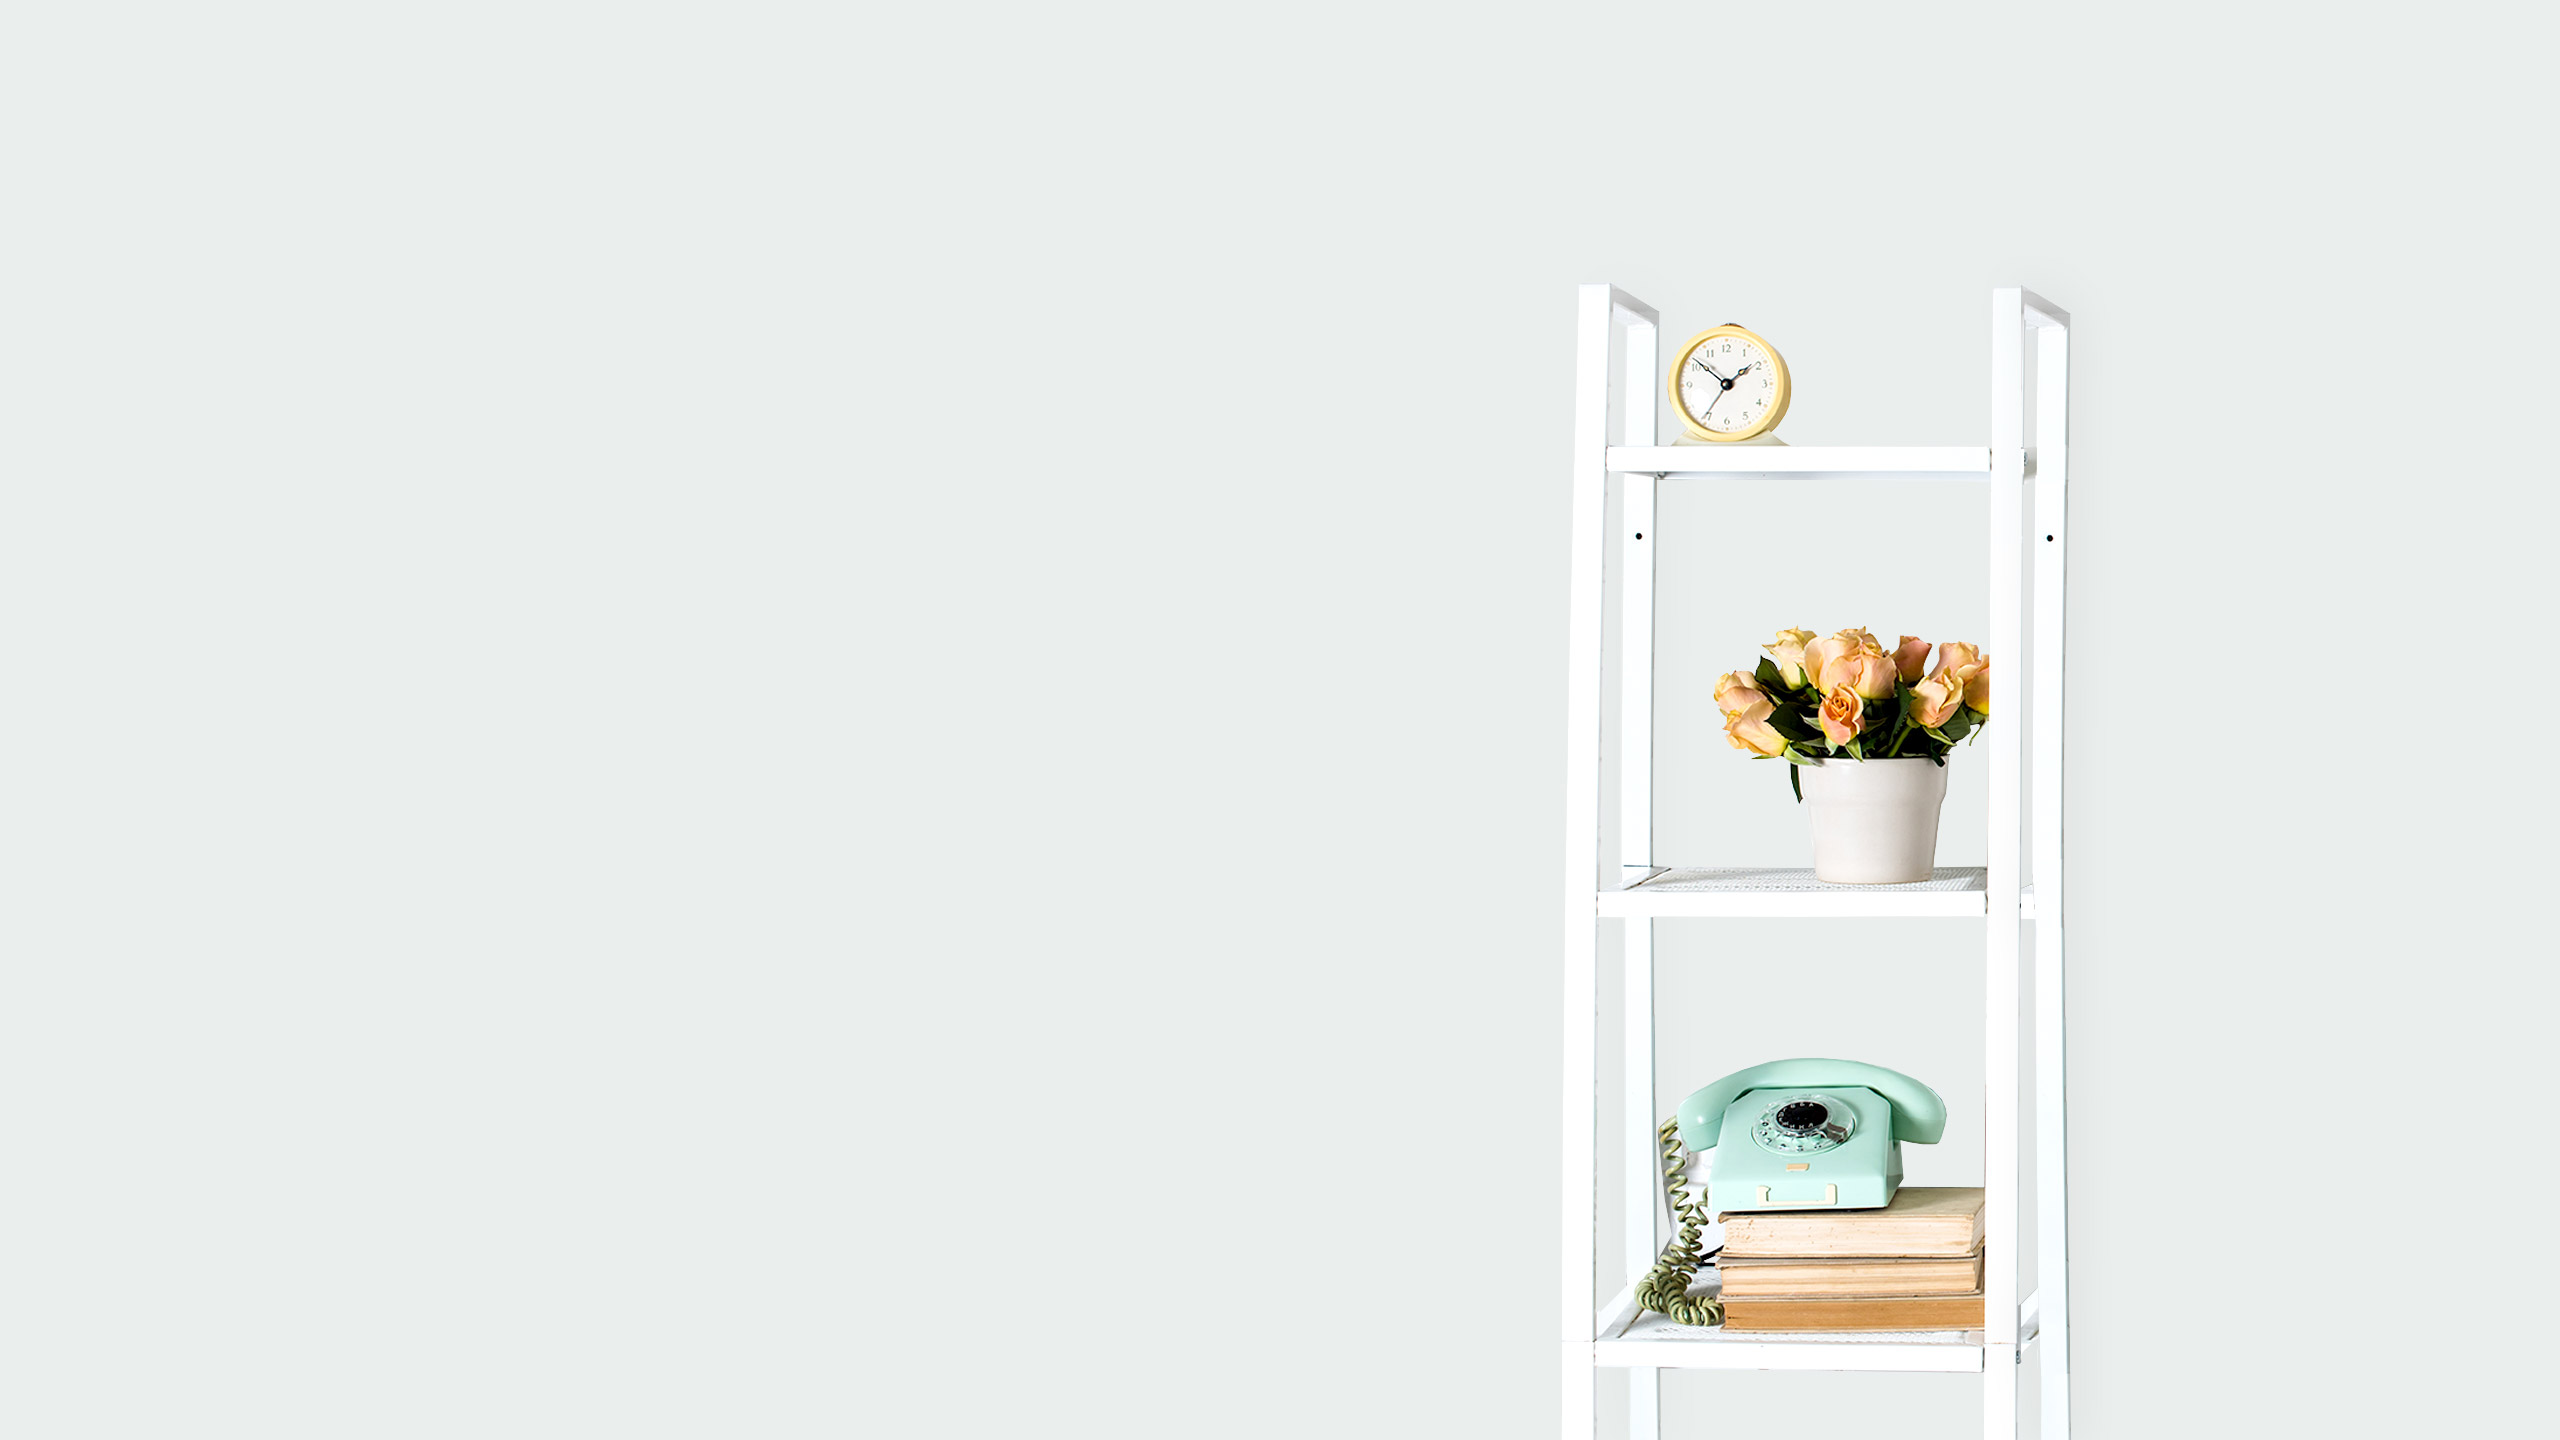
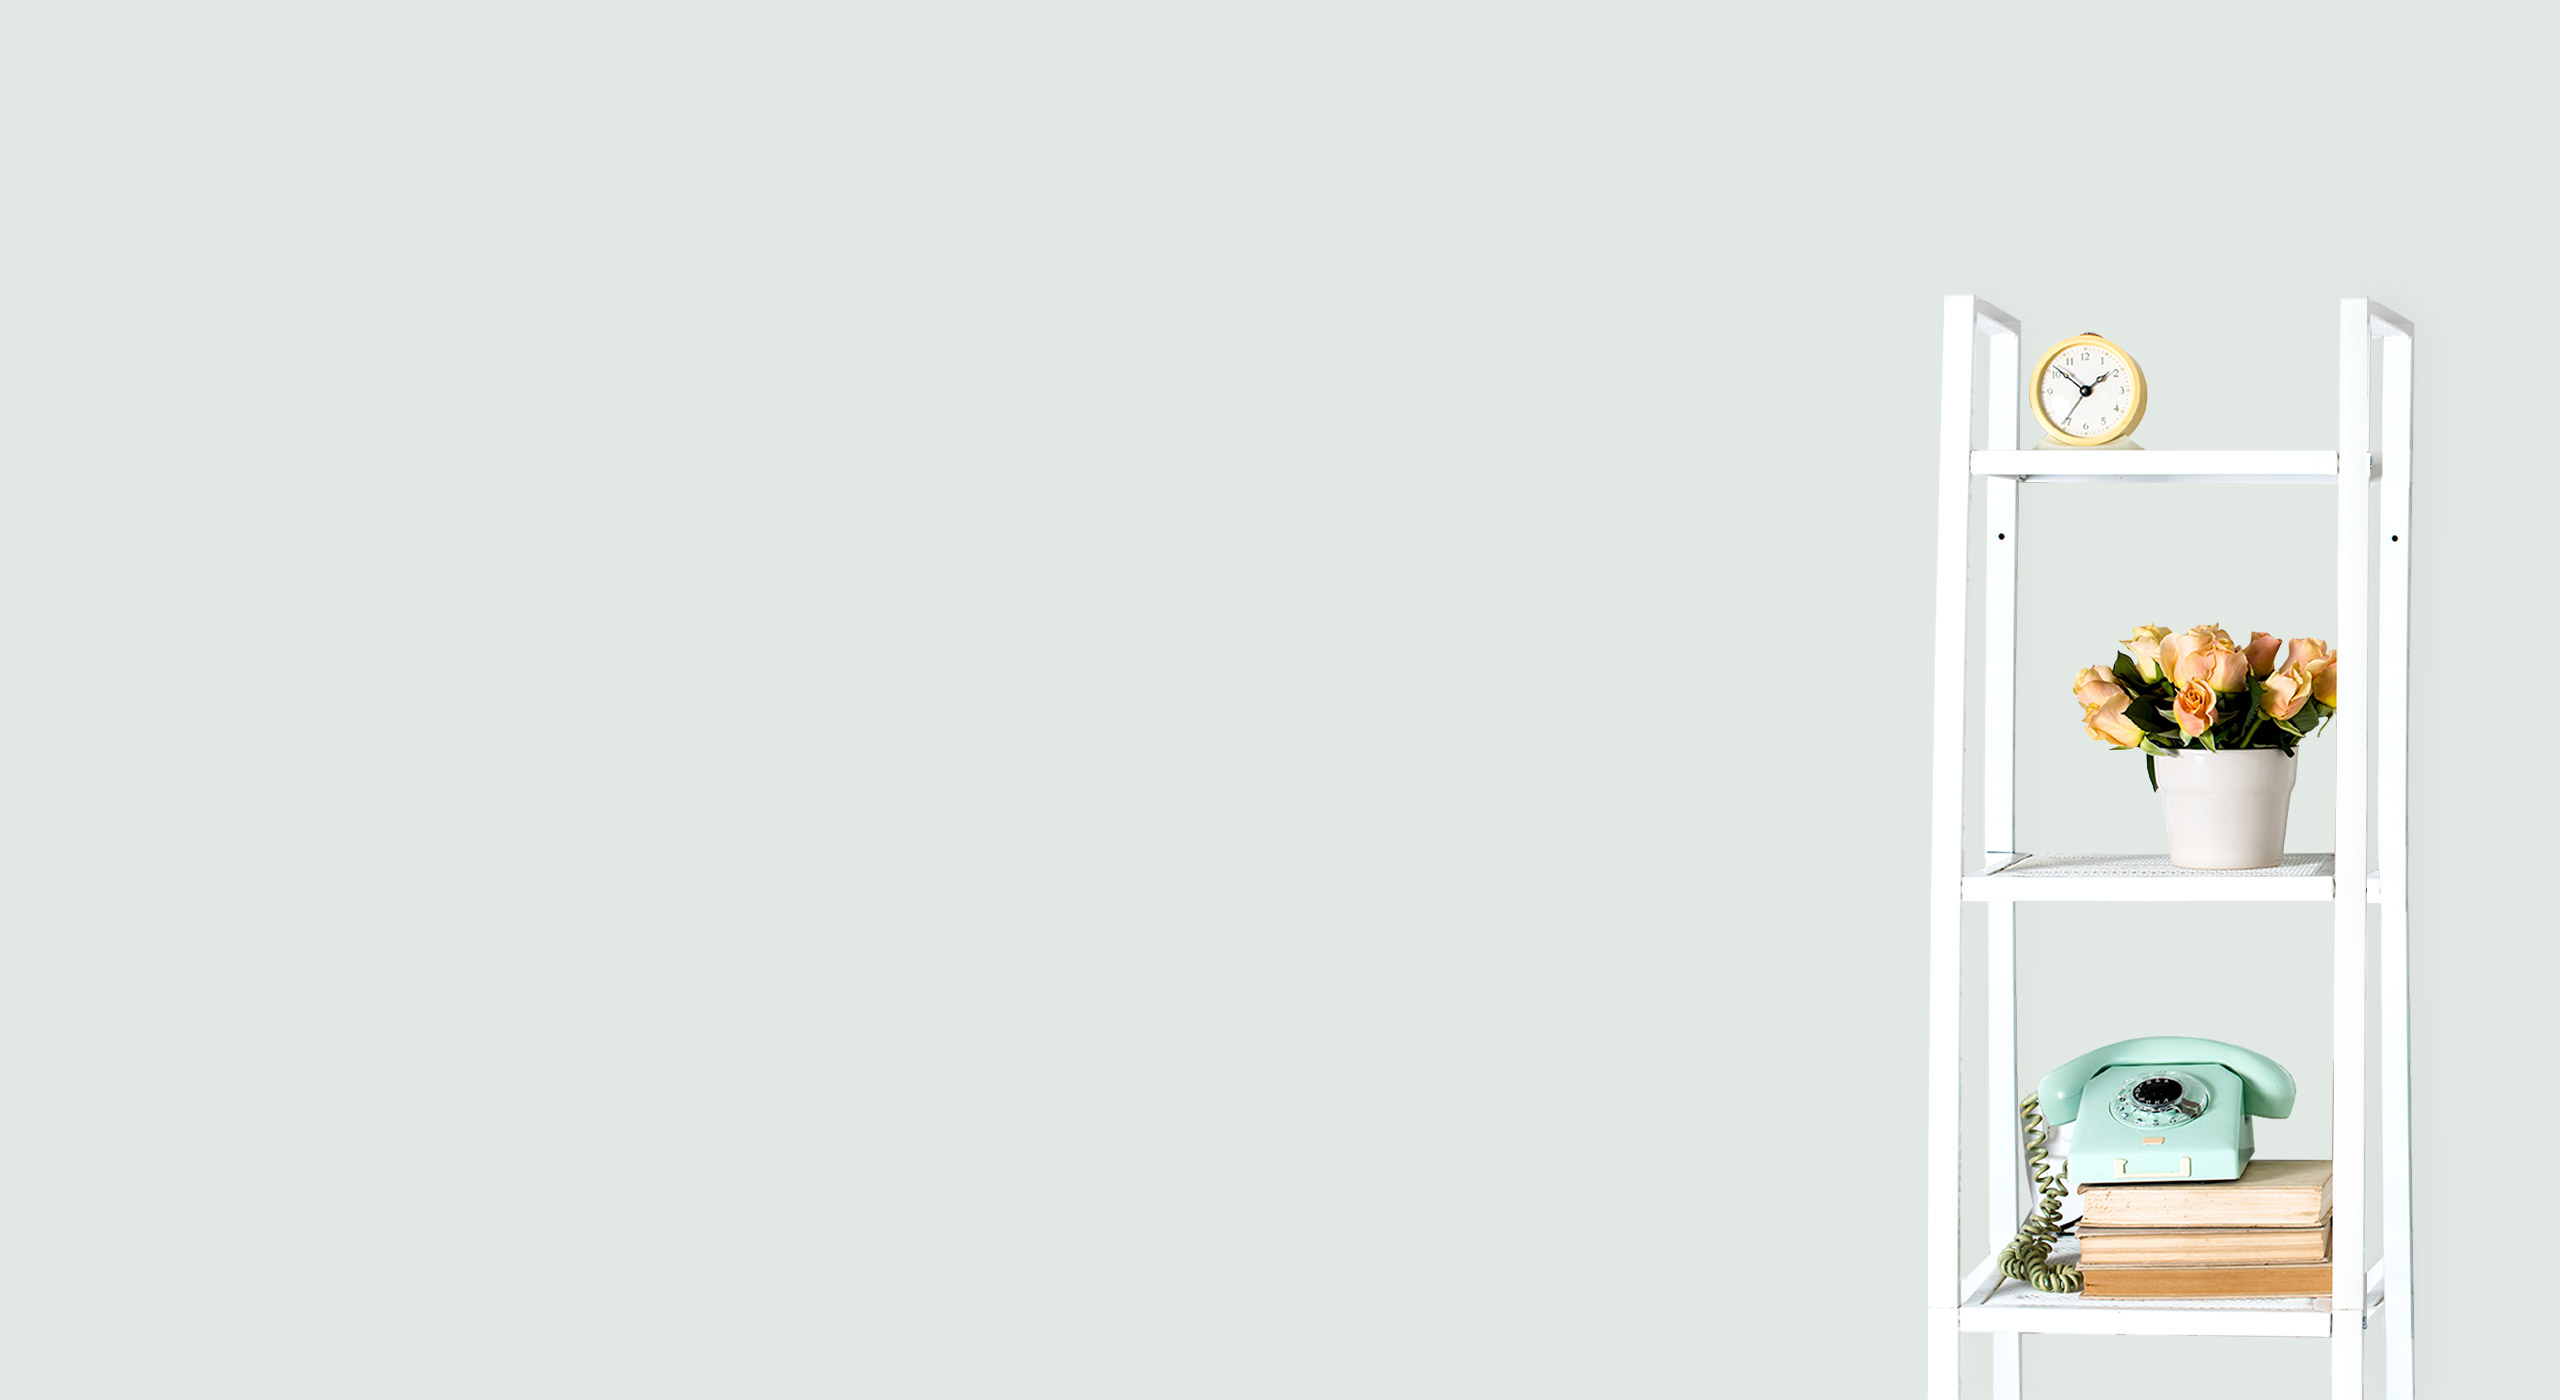
Updated slideshow images and ecom basket button.

Changed region(s): [[0.5938, 0.1843, 0.9375, 1.0], [0.9062, 0.215, 0.9375, 0.2457]]

diff --git a/less/plugins/ecommerce.less b/less/plugins/ecommerce.less
@@ -36,7 +36,6 @@
 button.basket-toggle {
 	background-color: @font-swatch6-color-hover;
 	color: @font-swatch6-background-color;
-	position: absolute;
 	right: 0;
 	margin-bottom: 0;
 	padding: 12px 20px;
@@ -444,7 +443,11 @@ form.ecomproductslist__form {
 
 	.product-item-title {
 		color: @font-swatch4-color;
-		font-size: bkscale(@font-swatch4-font-size, 0.92);
+		font-family: @font-swatch2-font-family;
+		font-size: bkscale(@font-swatch3-font-size, 1.05);
+		font-weight: @font-swatch2-font-weight;
+		line-height: bkscale(@font-swatch3-line-height, 1.05);
+		margin-bottom: 0;
 
 		a {
 			color: @font-swatch4-color;
@@ -453,7 +456,7 @@ form.ecomproductslist__form {
 
 	.product-item-price {
 		color: @color-swatch2;
-		font-size: bkscale(@font-swatch3-font-size, 0.95);
+		font-size: bkscale(@font-swatch4-font-size, 0.92);
 	}
 }
 
@@ -542,7 +545,11 @@ form.ecomproductslist__form {
 
 	.product-item-title {
 		color: @font-swatch4-color;
-		font-size: bkscale(@font-swatch4-font-size, 0.85);
+		font-family: @font-swatch2-font-family;
+		font-size: bkscale(@font-swatch3-font-size, 1.05);
+		font-weight: @font-swatch2-font-weight;
+		line-height: bkscale(@font-swatch3-line-height, 1.05);
+		margin-bottom: 0;
 
 		a {
 			color: @font-swatch4-color;
@@ -551,27 +558,8 @@ form.ecomproductslist__form {
 
 	.product-item-price {
 		color: @color-swatch2;
-		font-size: bkscale(@font-swatch3-font-size, 0.95);
+		font-size: bkscale(@font-swatch4-font-size, 0.92);
 	}
-}
-
-
-// Masonry transitions
-
-.masonry {
-  -webkit-transition-duration: 0.3s;
-     -moz-transition-duration: 0.3s;
-      -ms-transition-duration: 0.3s;
-       -o-transition-duration: 0.3s;
-          transition-duration: 0.3s;
-}
-
-.masonry {
-  -webkit-transition-property: height, width;
-     -moz-transition-property: height, width;
-      -ms-transition-property: height, width;
-       -o-transition-property: height, width;
-          transition-property: height, width;
 }
 
 

diff --git a/stylesheet.less b/stylesheet.less
@@ -420,7 +420,7 @@ button,
     .align-self(flex-start);
     .flex-grow(1);
     .flex(1 0 auto);
-    padding-right: 50px;
+    padding-right: 15px;
 }
 
 @media @tablet {
@@ -604,7 +604,7 @@ button,
 
     // Image element
     figure {
-        background-position: center;
+        background-position: center right;
         background-repeat: no-repeat;
         height: 100vh;
     }

diff --git a/less/widgets.less b/less/widgets.less
@@ -389,6 +389,7 @@ hr.rule {
 
         .image-description {
             color: darken(@color-swatch1, 15%);
+            display: block;
             font-size: 15px;
             line-height: 23px;
         }
